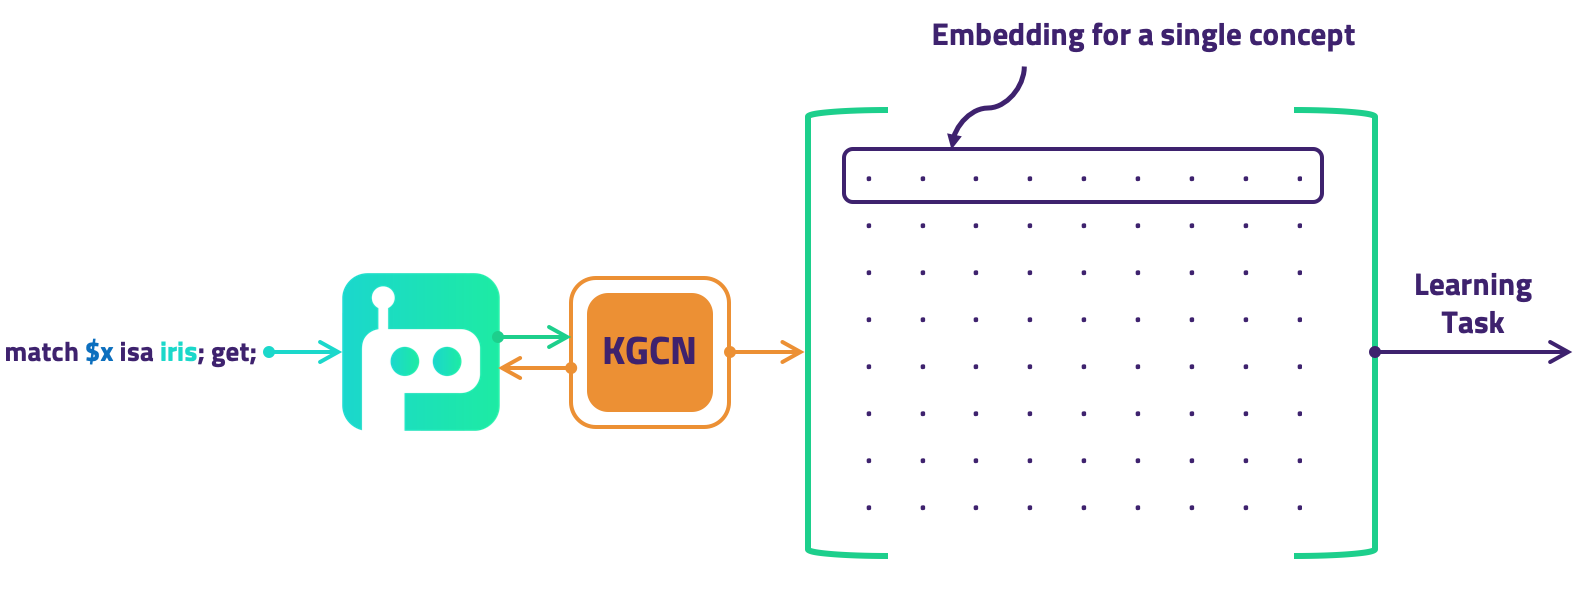
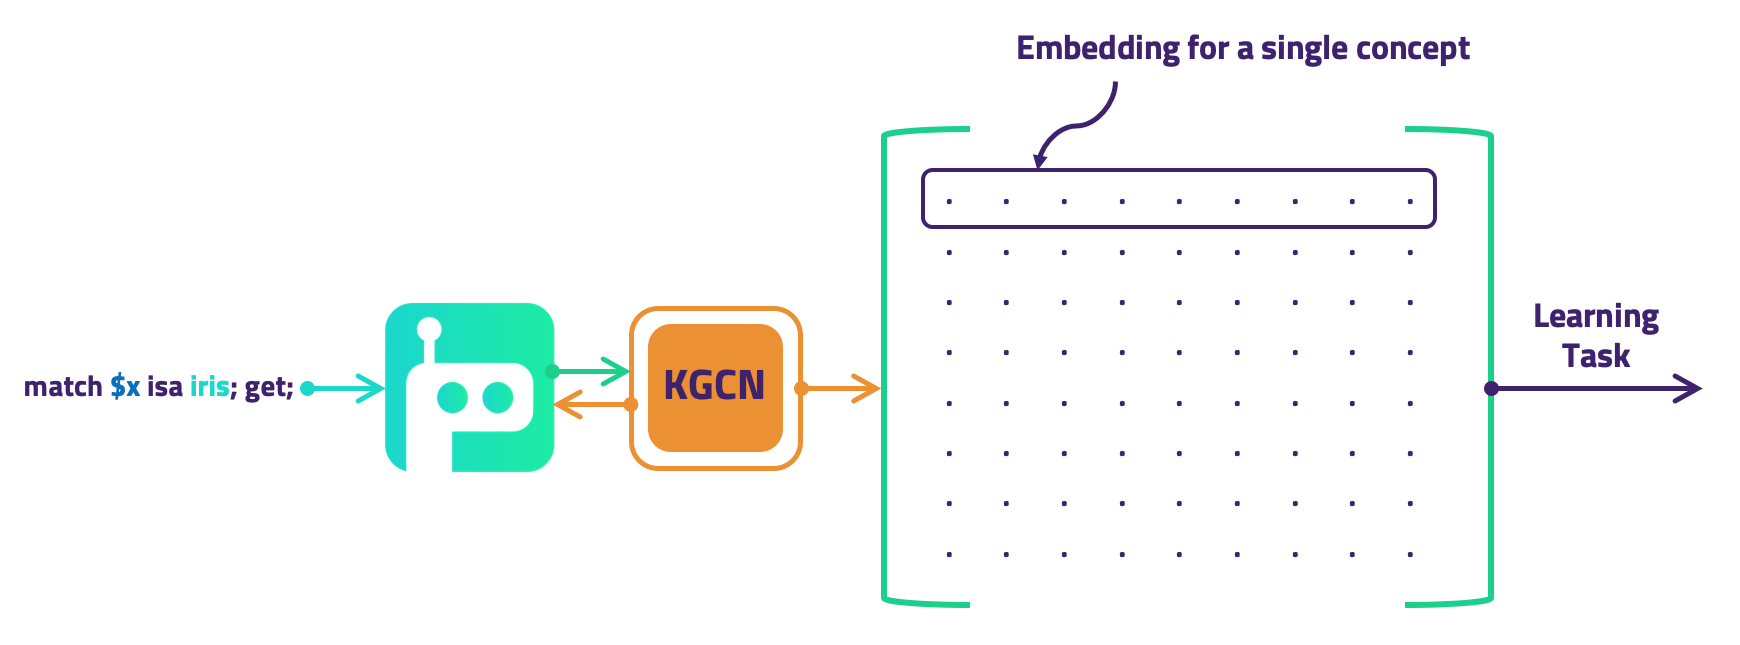
Grakn 1.5 migration (#58)
## What is the goal of this PR?

- Update the documentation for KGCN
- Migrate to use Grakn commit 20750ca0a46b4bc252ad81edccdfd8d8b7c46caa and Python grakn-client commit 5459d5d88a30631c5ebdac3a9b0d5ea6f184c8ae

## What are the changes implemented in this PR?

- KGCN README improvements, corrections, fixes including updated diagrams
- CI updates to use Grakn distributions hosted on GCP for unit, integration and end-to-end tests

Changed region(s): [[0.0, 0.1212, 0.9887, 0.9394], [0.587, 0.0303, 0.8651, 0.1212]]

diff --git a/kglib/kgcn/core/ingest/traverse/data/context/neighbour.py b/kglib/kgcn/core/ingest/traverse/data/context/neighbour.py
@@ -20,7 +20,7 @@
 import kglib.kgcn.core.ingest.traverse.data.context.utils as utils
 
 
-TARGET_PLAYS = 0  # In this case, the neighbour is a relationship in which this thing plays a role
+TARGET_PLAYS = 0  # In this case, the neighbour is a relation in which this thing plays a role
 NEIGHBOUR_PLAYS = 1  # In this case the target
 
 DATA_TYPE_NAMES = ('long', 'double', 'boolean', 'date', 'string')
@@ -46,20 +46,20 @@ class NeighbourFinder:
     ATTRIBUTE_ROLE_LABEL = 'has'
 
     ROLE_QUERY = {
-        'query': "match $thing id {}; $relationship id {}; $relationship($role: $thing); get $role;",
+        'query': "match $thing id {}; $relation id {}; $relation($role: $thing); get $role;",
         'variable': 'role'
     }
 
     ROLES_PLAYED_QUERY = {
-        'query': "match $thing id {}; $relationship($thing); get $relationship, $thing;",
+        'query': "match $thing id {}; $relation($thing); get $relation, $thing;",
         'role_direction': TARGET_PLAYS,
         'target_variable': 'thing',
-        'neighbour_variable': 'relationship'}
+        'neighbour_variable': 'relation'}
 
     ROLEPLAYERS_QUERY = {
-        'query': "match $relationship id {}; $relationship($thing); get $thing, $relationship;",
+        'query': "match $relation id {}; $relation($thing); get $thing, $relation;",
         'role_direction': NEIGHBOUR_PLAYS,
-        'target_variable': 'relationship',
+        'target_variable': 'relation',
         'neighbour_variable': 'thing'}
 
     def __init__(self, find_neighbours_from_attributes=True, roles_played_query=ROLES_PLAYED_QUERY,
@@ -89,38 +89,38 @@ class NeighbourFinder:
             if target_thing.is_attribute() and self._find_neighbours_from_attributes:
                 yield from self._find_neighbours_from_attribute(tx, target_thing)
 
-            # # Connections to entities, relationships and optionally implicit relationships
-            # yield from self._find_entity_and_relationship_neighbours(query_direction, thing_id, tx)
+            # # Connections to entities, relations and optionally implicit relations
+            # yield from self._find_entity_and_relation_neighbours(query_direction, thing_id, tx)
 
-            yield from self._find_neighbour_relationships_where_thing_plays_role(tx, thing_id)
+            yield from self._find_neighbour_relations_where_thing_plays_role(tx, thing_id)
 
-            if target_thing.is_relationship():
+            if target_thing.is_relation():
                 yield from self._find_neighbour_roleplayers(tx, thing_id)
 
         return _link_iterator()
 
-    def _find_neighbour_relationships_where_thing_plays_role(self, tx, thing_id):
+    def _find_neighbour_relations_where_thing_plays_role(self, tx, thing_id):
         base_query = self.ROLES_PLAYED_QUERY
         thing_variable = base_query['target_variable']
-        relationship_variable = base_query['neighbour_variable']
-        yield from self._get_role_link(tx, base_query, relationship_variable, thing_variable, thing_id)
+        relation_variable = base_query['neighbour_variable']
+        yield from self._get_role_link(tx, base_query, relation_variable, thing_variable, thing_id)
 
     def _find_neighbour_roleplayers(self, tx, thing_id):
         base_query = self.ROLEPLAYERS_QUERY
         thing_variable = base_query['neighbour_variable']
-        relationship_variable = base_query['target_variable']
-        yield from self._get_role_link(tx, base_query, relationship_variable, thing_variable, thing_id)
+        relation_variable = base_query['target_variable']
+        yield from self._get_role_link(tx, base_query, relation_variable, thing_variable, thing_id)
 
-    def _get_role_link(self, tx, base_query, relationship_variable, thing_variable, thing_id):
+    def _get_role_link(self, tx, base_query, relation_variable, thing_variable, thing_id):
         query = base_query['query'].format(thing_id)
         print(query)
         link_iterator = self._query(query, tx)
 
         for answer in link_iterator:
-            relationship = answer.get(relationship_variable)
+            relation = answer.get(relation_variable)
             thing = answer.get(thing_variable)
-            if not(relationship.type().is_implicit() or thing.type().is_implicit()):
-                role_sups = self._find_roles(thing, relationship, tx)
+            if not(relation.type().is_implicit() or thing.type().is_implicit()):
+                role_sups = self._find_roles(thing, relation, tx)
                 role = find_lowest_role_from_role_sups(role_sups)
 
                 role_label = role.label()
@@ -131,8 +131,8 @@ class NeighbourFinder:
                 yield {'role_label': role_label, 'role_direction': base_query['role_direction'],
                        'neighbour_thing': neighbour_thing}
 
-    def _find_roles(self, thing, relationship, tx):
-        query_str = self.ROLE_QUERY['query'].format(thing.id, relationship.id)
+    def _find_roles(self, thing, relation, tx):
+        query_str = self.ROLE_QUERY['query'].format(thing.id, relation.id)
         answers = self._query(query_str, tx)
         role_sups = [answer.get(self.ROLE_QUERY['variable']) for answer in answers]
         return role_sups
@@ -141,7 +141,7 @@ class NeighbourFinder:
 
         if target_thing.type().is_implicit():
             raise ValueError(
-                "A target thing has been found to be implicit, but using implicit relationships has "
+                "A target thing has been found to be implicit, but using implicit relations has "
                 "been optionally disabled")
 
         attribute_query = self.ATTRIBUTE_QUERY['query'].format(thing_id)
@@ -201,7 +201,7 @@ def build_thing(grakn_thing):
     type_label = grakn_thing.type().label()
     base_type_label = grakn_thing.base_type.lower()
 
-    assert(base_type_label in ['entity', 'relationship', 'attribute'])
+    assert(base_type_label in ['entity', 'relation', 'attribute'])
 
     if base_type_label == 'attribute':
         data_type = grakn_thing.type().data_type().name.lower()

diff --git a/kglib/kgcn/core/ingest/traverse/data/context/neighbour_test.py b/kglib/kgcn/core/ingest/traverse/data/context/neighbour_test.py
@@ -78,7 +78,7 @@ class TestNeighbourFinderFromEntity(BaseTestNeighbourFinder.TestNeighbourFinder)
         self._res = list(self._neighbour_finder.find(self._grakn_thing.id, self._tx))
 
 
-class TestNeighbourFinderFromRelationship(BaseTestNeighbourFinder.TestNeighbourFinder):
+class TestNeighbourFinderFromRelation(BaseTestNeighbourFinder.TestNeighbourFinder):
 
     query = "match $x isa employment; get;"
     var = 'x'
@@ -87,7 +87,7 @@ class TestNeighbourFinderFromRelationship(BaseTestNeighbourFinder.TestNeighbourF
     neighbour_type = 'person'
 
     def setUp(self):
-        super(TestNeighbourFinderFromRelationship, self).setUp()
+        super(TestNeighbourFinderFromRelation, self).setUp()
         self._res = list(self._neighbour_finder.find(self._grakn_thing.id, self._tx))
 
 
@@ -132,18 +132,18 @@ class TestNeighbourFinderFromDateAttribute(BaseTestNeighbourFinder.TestNeighbour
 
 
 class TestFindLowestRoleFromRoleSups(BaseGraknIntegrationTest.GraknIntegrationTest):
-    relationship_query = "match $employment(employee: $roleplayer) isa employment; get;"
+    relation_query = "match $employment(employee: $roleplayer) isa employment; get;"
     role_query = "match $employment id {}; $person id {}; $employment($role: $person); get $role;"
-    relationship_var = 'employment'
+    relation_var = 'employment'
     thing_var = 'roleplayer'
     role_var = 'role'
 
     def setUp(self):
         super(TestFindLowestRoleFromRoleSups, self).setUp()
-        ans = list(self._tx.query(self.relationship_query))[0]
+        ans = list(self._tx.query(self.relation_query))[0]
         self._thing = ans.get(self.thing_var)
-        self._relationship = ans.get(self.relationship_var)
-        role_query = self.role_query.format(self._relationship.id, self._thing.id)
+        self._relation = ans.get(self.relation_var)
+        role_query = self.role_query.format(self._relation.id, self._thing.id)
         self._role_sups = [r.get(self.role_var) for r in self._tx.query(role_query)]
 
     def test_role_matches(self):
@@ -182,20 +182,20 @@ class TestBuildThingForEntity(BaseTestBuildThing.TestBuildThing):
     base_type = 'entity'
 
 
-class TestBuildThingForRelationship(BaseTestBuildThing.TestBuildThing):
+class TestBuildThingForRelation(BaseTestBuildThing.TestBuildThing):
 
     query = "match $x isa employment; get;"
     var = 'x'
     type_label = 'employment'
-    base_type = 'relationship'
+    base_type = 'relation'
 
 
-class TestBuildThingForImplicitRelationship(BaseTestBuildThing.TestBuildThing):
+class TestBuildThingForImplicitRelation(BaseTestBuildThing.TestBuildThing):
 
     query = "match $x isa @has-job-title; get;"
     var = 'x'
     type_label = '@has-job-title'
-    base_type = 'relationship'  # TODO do we want to see @has-attribute here?
+    base_type = 'relation'  # TODO do we want to see @has-attribute here?
 
 
 class BaseTestBuildThingForAttribute:

diff --git a/kglib/kgcn/core/ingest/traverse/data/context/builder_mocks.py b/kglib/kgcn/core/ingest/traverse/data/context/builder_mocks.py
@@ -31,7 +31,7 @@ def mock_traversal_output():
         neighbour.Thing("0", "person", "entity"),
         [
             builder.Neighbour("employee", neighbour.TARGET_PLAYS, builder.ThingContext(
-                neighbour.Thing("1", "employment", "relationship"),
+                neighbour.Thing("1", "employment", "relation"),
                 [
                     builder.Neighbour("employer", neighbour.NEIGHBOUR_PLAYS, builder.ThingContext(
                         neighbour.Thing("2", "company", "entity"), []
@@ -39,7 +39,7 @@ def mock_traversal_output():
                 ]
             )),
             builder.Neighbour("@has-name-owner", neighbour.TARGET_PLAYS, builder.ThingContext(
-                neighbour.Thing("3", "@has-name", "relationship"),
+                neighbour.Thing("3", "@has-name", "relation"),
                 [
                     builder.Neighbour("@has-name-value", neighbour.NEIGHBOUR_PLAYS, builder.ThingContext(
                         neighbour.Thing("4", "name", "attribute", data_type='string', value="Employee Name"),
@@ -67,8 +67,8 @@ class MockNeighbourFinder:
 
             role_direction = neighbour.TARGET_PLAYS
             yield from gen([
-                _build_data("employee", role_direction, "1", "employment", "relationship"),
-                _build_data("@has-name-owner", role_direction, "3", "@has-name", "relationship")
+                _build_data("employee", role_direction, "1", "employment", "relation"),
+                _build_data("@has-name-owner", role_direction, "3", "@has-name", "relation")
             ])
 
         elif thing_id == "1":

diff --git a/kglib/kgcn/core/ingest/encode/encode.py b/kglib/kgcn/core/ingest/encode/encode.py
@@ -83,7 +83,7 @@ class Encoder:
                 "https://tfhub.dev/google/nnlm-en-dim128-with-normalization/1", 128)
 
             data_types = list(neighbour.DATA_TYPE_NAMES)
-            data_types.insert(0, NO_DATA_TYPE)  # For the case where an entity or relationship is encountered
+            data_types.insert(0, NO_DATA_TYPE)  # For the case where an entity or relation is encountered
             data_types_traversal = {data_type: data_types for data_type in data_types}
 
             # Later a hierarchy could be added to data_type meaning. e.g. long and double are both numeric

diff --git a/examples/kgcn/animal_trade/test/end_to_end_test.py b/examples/kgcn/animal_trade/test/end_to_end_test.py
@@ -82,7 +82,7 @@ class TestEndToEnd(unittest.TestCase):
                           'external/animaltrade_dist/file/downloaded-unzipped'])
 
         # Start Grakn
-        sub.run(['external/animaltrade_dist/file/downloaded-unzipped/grakn-animaltrade/grakn', 'server', 'start'])
+        sub.run(['external/animaltrade_dist/file/downloaded-unzipped/grakn-core-animaltrade-1.5.0/grakn', 'server', 'start'])
 
         modes = (TRAIN, EVAL)
 

diff --git a/kglib/kgcn/core/model_test.py b/kglib/kgcn/core/model_test.py
@@ -33,7 +33,7 @@ class TestKGCN(unittest.TestCase):
     - Number of neighbours to sample at each depth
     - How to sample those neighbours (incl. pseudo-random params)
     - Whether to propagate sampling through attributes
-    - Whether to use implicit relationships, or 'has' roles
+    - Whether to use implicit relations, or 'has' roles
     - Number of training steps
     - Learning rate
     - Optimiser e.g. AdamOptimiser

diff --git a/kglib/kgcn/core/ingest/traverse/data/context/builder.py b/kglib/kgcn/core/ingest/traverse/data/context/builder.py
@@ -58,7 +58,7 @@ class ContextBuilder:
         sampler = self._depth_samplers[-depth]
         next_depth = depth - 1
 
-        # Any concept could play a role in a relationship if the schema permits it
+        # Any concept could play a role in a relation if the schema permits it
         # Distinguish the concepts found as roles-played
         connections = self._neighbour_finder.find(starting_thing.id, tx)
 

diff --git a/kglib/kgcn/core/ingest/traverse/schema/traversal.py b/kglib/kgcn/core/ingest/traverse/schema/traversal.py
@@ -19,7 +19,7 @@
 
 import collections
 
-METATYPE_LABELS = ['thing', 'entity', 'relationship', 'attribute', 'role', '@has-attribute-value',
+METATYPE_LABELS = ['thing', 'entity', 'relation', 'attribute', 'role', '@has-attribute-value',
                    '@has-attribute-owner', '@has-attribute']
 
 

diff --git a/kglib/kgcn/README.md b/kglib/kgcn/README.md
@@ -13,15 +13,15 @@ A KGCN can be used to create vector representations, *embeddings*, of any labell
 
 Often, data doesn't fit well into a tabular format. There are many benefits to storing complex and interrelated data in a knowledge graph, not least that the context of each datapoint can be stored in full.
 
-However, many existing machine learning techniques rely upon an *input vector for each example*. This can make it difficult to directly apply many conventional machine learning techniques over a knowledge graph. 
+However, many existing machine learning techniques rely upon the existence of an *input vector for each example*. Creating such a vector to represent a node in a knowledge graph is non-trivial.
 
-In order to make use of the wealth of existing ideas, tools and pipelines in machine learning, we need a method of building a vector to describe a datapoint in a knowledge graph. In this way we can leverage contextual information from a knowledge graph for machine learning.
+In order to make use of the wealth of existing ideas, tools and pipelines in machine learning, we need a method of building these vectors. In this way we can leverage contextual information from a knowledge graph for machine learning.
 
-This is what a KGCN can achieve. Given an example datapoint taken from a knowledge graph, it can examine the nodes in the vicinity of an example, its *context*. Based on this context it can determine a vector representation, an *embedding*, for that example.
+This is what a KGCN can achieve. Given an example node in a knowledge graph, it can examine the nodes in the vicinity of that example, its *context*. Based on this context it can determine a vector representation, an *embedding*, for that example.
 
 **There are two broad learning tasks a KGCN is suitable for:**
 
-**1. Supervised learning from a knowledge graph for prediction e.g. multi-class classification (currently implemented), regression, link prediction**
+**1. Supervised learning from a knowledge graph for prediction e.g. multi-class classification (implemented), regression, link prediction**
 **2. Unsupervised creation of Knowledge Graph Embeddings, e.g. for clustering and node comparison tasks**
 
 ![KGCN Process](readme_images/KGCN_process.png)
@@ -46,7 +46,8 @@ In order to build a *useful* representation, a KGCN needs to perform some learni
 The following is a template of what must be defined in order to instantiate a KGCN, optimised for a downstream learning task of multi-class classification:
 
 ```python
-import kglib.kgcn.embed.model as model
+import kglib.kgcn.core.model as model
+import kglib.kgcn.learn.classify as classify
 import tensorflow as tf
 import grakn
 
@@ -65,10 +66,16 @@ kgcn = model.KGCN(neighbour_sample_sizes,
                   batch_size)
 
 optimizer = tf.train.GradientDescentOptimizer(learning_rate=learning_rate)
-classifier = learn.classify.SupervisedKGCNClassifier(kgcn, optimizer, num_classes, log_dir,
-                                                        max_training_steps=max_training_steps)
 
-training_feed_dict = classifier.get_feed_dict(session, training_things, labels=training_labels)
+classifier = classify.SupervisedKGCNClassifier(kgcn,
+                                               optimizer, 
+                                               num_classes, 
+                                               log_dir,
+                                               max_training_steps=max_training_steps)
+
+training_feed_dict = classifier.get_feed_dict(session, 
+                                              training_things, 
+                                              labels=training_labels)
 
 classifier.train(training_feed_dict)
 
@@ -80,17 +87,17 @@ There is also a [full example](https://github.com/graknlabs/kglib/tree/master/ex
 
 ## Methodology
 
-The ideology behind this project is described [here](https://blog.grakn.ai/knowledge-graph-convolutional-networks-machine-learning-over-reasoned-knowledge-9eb5ce5e0f68), and a [video of the presentation](https://youtu.be/Jx_Twc75ka0?t=368). The principles of the implementation are based on [GraphSAGE](http://snap.stanford.edu/graphsage/), from the Stanford SNAP group, heavily adapted to work over a knowledge graph. Instead of working on a typical property graph, a KGCN learns from the context of a *typed hypergraph*, **Grakn**. Additionally, it learns from facts deduced by Grakn's *automated logical reasoner*. From this point onwards some understanding of [Grakn's docs](http://dev.grakn.ai) is assumed.
+The ideology behind this project is described [here](https://blog.grakn.ai/knowledge-graph-convolutional-networks-machine-learning-over-reasoned-knowledge-9eb5ce5e0f68), and a [video of the presentation](https://youtu.be/Jx_Twc75ka0?t=368). The principles of the implementation are based on [GraphSAGE](http://snap.stanford.edu/graphsage/), from the Stanford SNAP group, heavily adapted to work over a knowledge graph. Instead of working on a typical property graph, a KGCN learns from contextual data stored in a *typed hypergraph*, **Grakn**. Additionally, it learns from facts deduced by Grakn's *automated logical reasoner*. From this point onwards some understanding of [Grakn's docs](http://dev.grakn.ai) is assumed.
 
 Now we introduce the key components and how they interact.
 
 ### KGCN
 
-A KGCN is responsible for deriving embeddings for a set of Things (and thereby directly learn to classify them). We start by querying Grakn to find a set of labelled examples. Following that, we gather data about the context of each example Thing. We do this by considering their *k-hop* neighbours.
+A KGCN is responsible for deriving embeddings for a set of Things (and thereby directly learn to classify them). We start by querying Grakn to find a set of labelled examples. Following that, we gather data about the context of each example Thing. We do this by considering their neighbours, and their neighbours' neighbours, recursively, up to K hops away.
 
-![methodology](readme_images/methodology.png)We retrieve the data concerning this neighbourhood from Grakn (diagram above). This information includes the *type hierarchy*, *roles*, and *attribute* values of each neighbouring Thing encountered, and any inferred neighbours (represented above by dotted lines).
+![methodology](readme_images/methodology.png)We retrieve the data concerning this neighbourhood from Grakn (diagram above). This information includes the *type hierarchy*, *roles*, and *attribute value* of each neighbouring Thing encountered, and any inferred neighbours (represented above by dotted lines). This data is compiled into arrays to be ingested by a neural network.
 
-Via operations Aggregate and Combine, a single vector representation is built for a Thing. This process can be chained recursively over k-hops of neighbouring Things. This builds a representation for a Thing of interest that contains information extracted from a wide context.
+Via operations Aggregate and Combine, a single vector representation is built for a Thing. This process can be chained recursively over *K* hops of neighbouring Things. This builds a representation for a Thing of interest that contains information extracted from a wide context.
 
 ![chaining](readme_images/chaining.png)
 
@@ -104,7 +111,7 @@ In order to feed a TensorFlow neural network, we need regular array structures o
 
 - Id
 - Type
-- Meta-Type (either Entity or Relationship or Attribute)
+- Meta-Type (either Entity or Relation or Attribute)
 - Data-type (if it's an attribute)
 - Value (if it's an attribute)
 - The Role that connects the example to that neighbour
